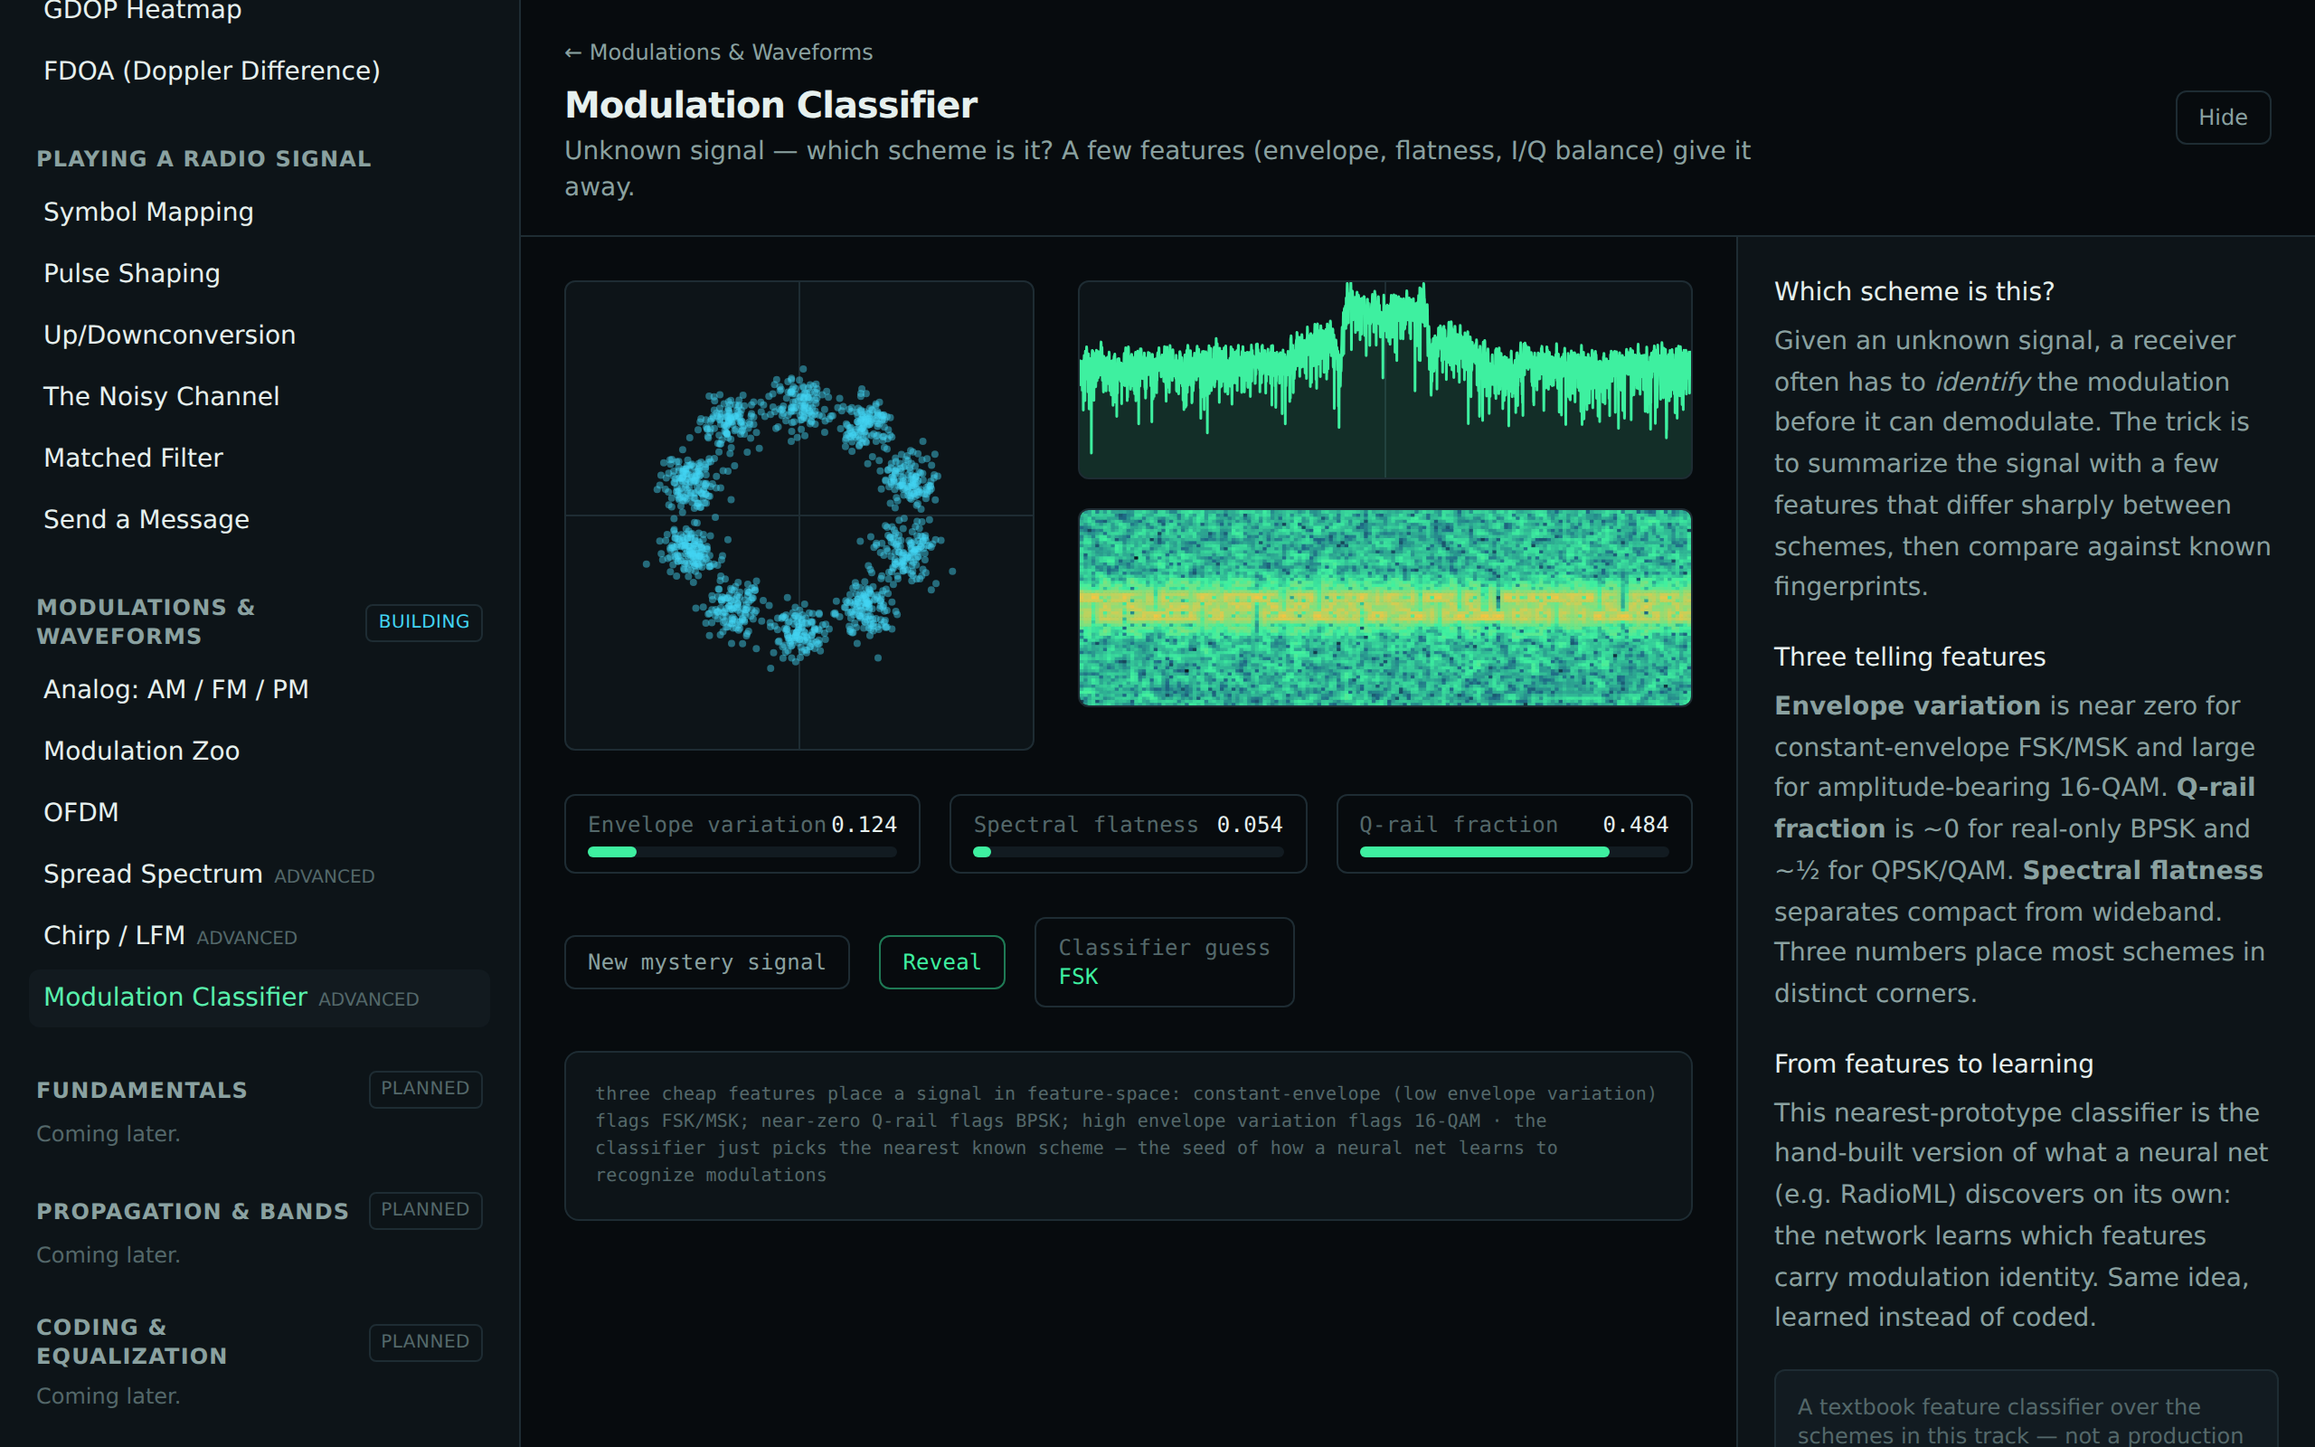
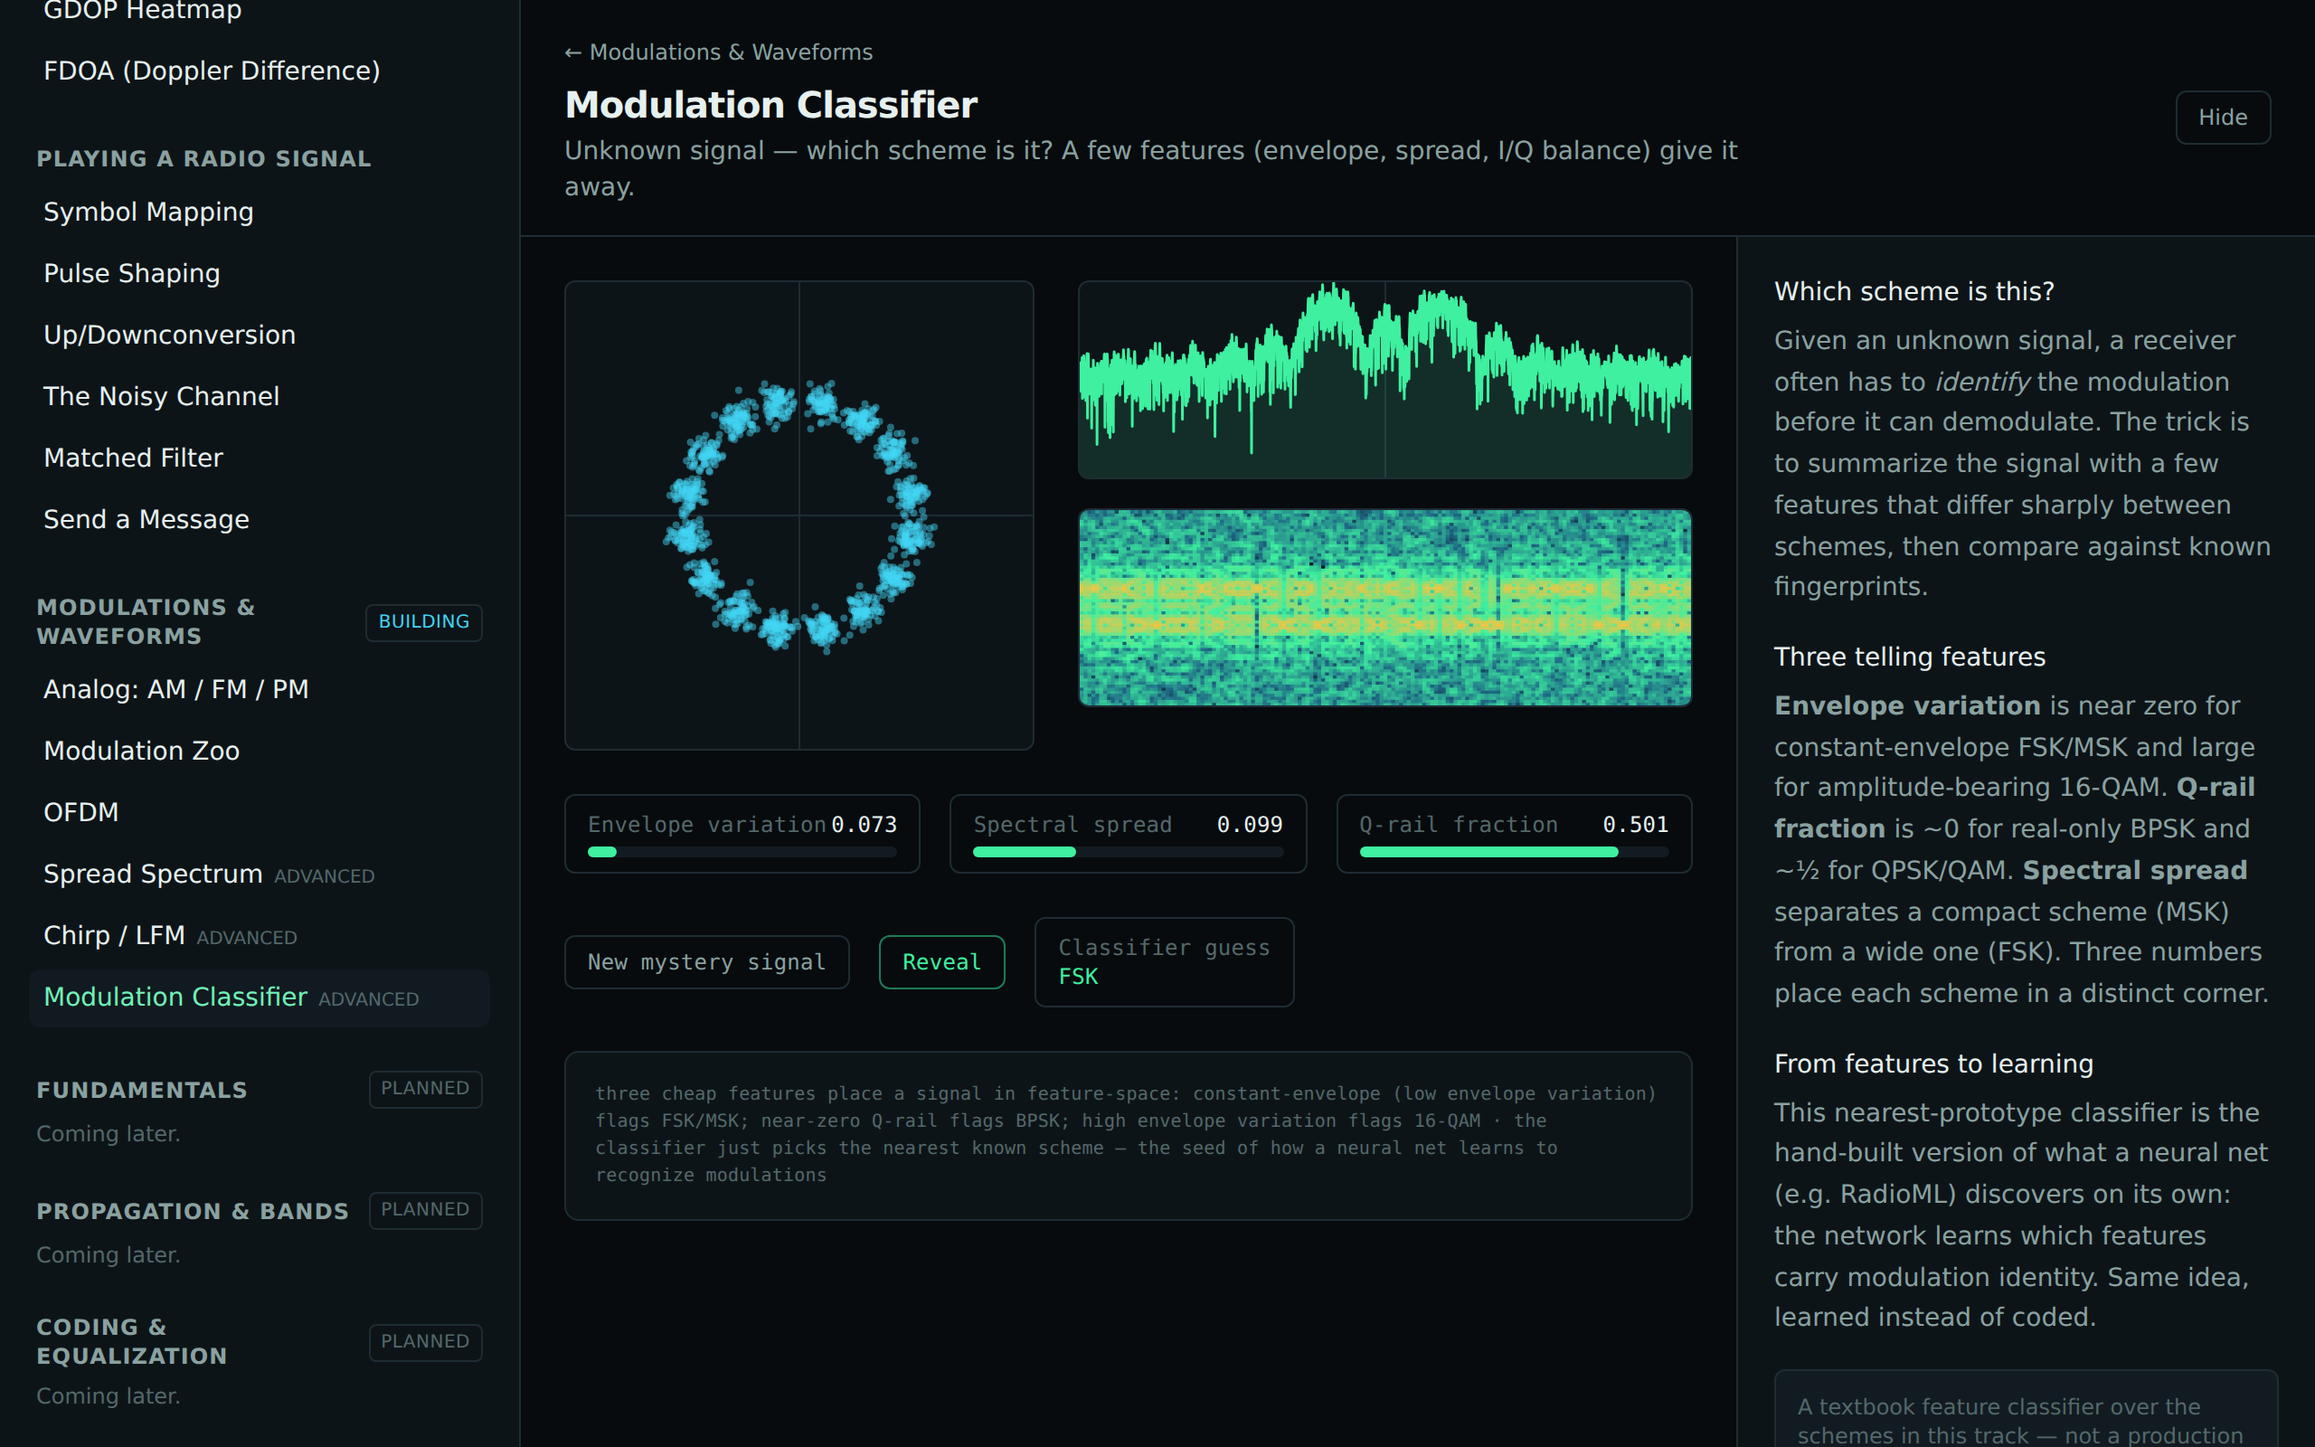
fix(track-c): noise-matched classifier prototypes + robust FSK/MSK separation
Codex: the classifier compared clean prototypes against a noisy mystery, so noise
pushed MSK's features toward clean FSK and MSK misclassified as FSK.

- Build prototypes from the same channel: average features over several noisy
  realizations (shared addChannelNoise helper), so noisy mysteries match noisy refs.
- Replace the spectral-flatness feature with spectral spread (power-weighted RMS
  bandwidth): flatness can't tell FSK's two discrete tones from MSK's compact lobe
  (both are spiky), but spread cleanly separates wide FSK from compact MSK and is
  robust to a uniform noise floor.
- Widen FSK's modulation index to 1.5 (clearly broader than MSK's 0.5; non-round so
  the locus stays a ring rather than landing on a π/4 grid).
- Slightly lower the demo noise (σ = meanEnv/14) to keep all five schemes separable.

Adds a noise-matched-classification test (every scheme self-classifies across seeds,
incl. FSK vs MSK). Updated feature labels/docs. 130 tests pass.

diff --git a/src/modules/modulations-and-waveforms/classifier/ClassifierModule.tsx b/src/modules/modulations-and-waveforms/classifier/ClassifierModule.tsx
@@ -23,15 +23,41 @@ const trainingBits = (() => {
   return Array.from({ length: 400 }, () => (rng() < 0.5 ? 0 : 1));
 })();
 
-// Prototype feature vectors from clean reference signals (built once).
-const PROTOTYPES: Record<string, Features> = Object.fromEntries(
-  NAMES.map((n) => [n, extractFeatures(MODULATORS[n].modulate(trainingBits, SPS).signal)])
-);
-
 function rngBits(seed: number, n: number): number[] {
   const rng = mulberry32(seed);
   return Array.from({ length: n }, () => (rng() < 0.5 ? 0 : 1));
 }
+
+/** Add the same per-sample AWGN the mystery uses (σ ≈ mean envelope / 14 — enough to be visibly
+ *  noisy while keeping the constant-envelope pair FSK/MSK separable). */
+function addChannelNoise(signal: Complex[], seed: number): Complex[] {
+  const sigma = signal.reduce((s, c) => s + Math.hypot(c.re, c.im), 0) / signal.length / 14;
+  const ni = gaussianNoise(signal.length, sigma, seed);
+  const nq = gaussianNoise(signal.length, sigma, seed + 1);
+  return signal.map((s, i) => ({ re: s.re + ni[i], im: s.im + nq[i] }));
+}
+
+// Noise-matched prototypes: average each scheme's features over several noisy realizations, so a
+// noisy mystery is compared against noisy references (clean prototypes would misread, e.g. noise
+// pushes MSK's spectral flatness toward clean FSK).
+const PROTOTYPES: Record<string, Features> = Object.fromEntries(
+  NAMES.map((n) => {
+    const sig = MODULATORS[n].modulate(trainingBits, SPS).signal;
+    const reps = Array.from({ length: 6 }, (_, k) =>
+      extractFeatures(addChannelNoise(sig, 1000 + k * 13))
+    );
+    const mean = (sel: (f: Features) => number) =>
+      reps.reduce((s, f) => s + sel(f), 0) / reps.length;
+    return [
+      n,
+      {
+        envelopeCv: mean((f) => f.envelopeCv),
+        spectralSpread: mean((f) => f.spectralSpread),
+        qFraction: mean((f) => f.qFraction),
+      },
+    ];
+  })
+);
 
 /**
  * Modulation-classification capstone (brief §6 stretch). Here's an unknown signal — which scheme is
@@ -46,10 +72,7 @@ export function ClassifierModule() {
     const truth = NAMES[seed % NAMES.length];
     const mod = MODULATORS[truth];
     const { signal, symbols } = mod.modulate(rngBits(seed * 17 + 1, 320), SPS);
-    const sigma = signal.reduce((s, c) => s + Math.hypot(c.re, c.im), 0) / signal.length / 8;
-    const ni = gaussianNoise(signal.length, sigma, seed + 5);
-    const nq = gaussianNoise(signal.length, sigma, seed + 6);
-    const noisy = signal.map((s, i) => ({ re: s.re + ni[i], im: s.im + nq[i] }));
+    const noisy = addChannelNoise(signal, seed * 2 + 5);
 
     const features = extractFeatures(noisy);
     const guess = classify(features, PROTOTYPES);
@@ -95,7 +118,7 @@ export function ClassifierModule() {
 
       <div className="grid grid-cols-1 gap-4 sm:grid-cols-3">
         <FeatureBar label="Envelope variation" value={features.envelopeCv} max={0.8} />
-        <FeatureBar label="Spectral flatness" value={features.spectralFlatness} max={1} />
+        <FeatureBar label="Spectral spread" value={features.spectralSpread} max={0.3} />
         <FeatureBar label="Q-rail fraction" value={features.qFraction} max={0.6} />
       </div>
 

diff --git a/src/dsp/features.ts b/src/dsp/features.ts
@@ -10,8 +10,9 @@ import { fft } from './fft';
 export interface Features {
   /** Envelope coefficient of variation std(|s|)/mean(|s|): ~0 for constant-envelope, high for QAM. */
   envelopeCv: number;
-  /** Spectral flatness (Wiener entropy) of the power spectrum, 0…1: high = noise-like/wideband. */
-  spectralFlatness: number;
+  /** Power-weighted RMS bandwidth in normalized frequency [0,0.5]: small for compact schemes (MSK),
+   *  large when energy spreads far from center (wide FSK). Robust to a uniform noise floor. */
+  spectralSpread: number;
   /** Fraction of energy on the Q rail: ~0 for BPSK (real only), ~0.5 for QPSK/QAM/FSK. */
   qFraction: number;
 }
@@ -34,16 +35,28 @@ export function extractFeatures(signal: Complex[]): Features {
   }
   const qFraction = totE > 1e-12 ? qE / totE : 0;
 
+  // Power-weighted RMS bandwidth about the spectral centroid, in normalized frequency (−0.5…0.5).
   const N = nextPow2(n);
   const padded: Complex[] = Array.from({ length: N }, (_, i) =>
     i < n ? signal[i] : { re: 0, im: 0 }
   );
-  const power = fft(padded).map((c) => c.re * c.re + c.im * c.im + 1e-12);
-  const logMean = power.reduce((s, p) => s + Math.log(p), 0) / N;
-  const arithMean = power.reduce((s, p) => s + p, 0) / N;
-  const spectralFlatness = Math.exp(logMean) / arithMean;
+  const power = fft(padded).map((c) => c.re * c.re + c.im * c.im);
+  let pSum = 0;
+  let fSum = 0;
+  for (let k = 0; k < N; k++) {
+    const f = k < N / 2 ? k / N : (k - N) / N; // unshifted bin → normalized freq
+    pSum += power[k];
+    fSum += f * power[k];
+  }
+  const centroid = pSum > 1e-12 ? fSum / pSum : 0;
+  let varSum = 0;
+  for (let k = 0; k < N; k++) {
+    const f = k < N / 2 ? k / N : (k - N) / N;
+    varSum += power[k] * (f - centroid) ** 2;
+  }
+  const spectralSpread = pSum > 1e-12 ? Math.sqrt(varSum / pSum) : 0;
 
-  return { envelopeCv, spectralFlatness, qFraction };
+  return { envelopeCv, spectralSpread, qFraction };
 }
 
 /** Nearest-prototype classifier: the scheme whose feature vector is closest (Euclidean). */
@@ -53,7 +66,7 @@ export function classify(f: Features, prototypes: Record<string, Features>): str
   for (const [name, p] of Object.entries(prototypes)) {
     const d =
       (f.envelopeCv - p.envelopeCv) ** 2 +
-      (f.spectralFlatness - p.spectralFlatness) ** 2 +
+      (f.spectralSpread - p.spectralSpread) ** 2 +
       (f.qFraction - p.qFraction) ** 2;
     if (d < bestD) {
       bestD = d;

diff --git a/src/dsp/features.test.ts b/src/dsp/features.test.ts
@@ -1,5 +1,7 @@
 import { describe, it, expect } from 'vitest';
+import type { Complex } from './complex';
 import { MODULATORS } from './modulation';
+import { gaussianNoise } from './random';
 import { extractFeatures, classify, type Features } from './features';
 
 const SPS = 8;
@@ -12,6 +14,13 @@ const prototypes: Record<string, Features> = Object.fromEntries(
     extractFeatures(m.modulate(bits, SPS).signal),
   ])
 );
+
+const addNoise = (signal: Complex[], seed: number): Complex[] => {
+  const sigma = signal.reduce((s, c) => s + Math.hypot(c.re, c.im), 0) / signal.length / 14;
+  const ni = gaussianNoise(signal.length, sigma, seed);
+  const nq = gaussianNoise(signal.length, sigma, seed + 1);
+  return signal.map((s, i) => ({ re: s.re + ni[i], im: s.im + nq[i] }));
+};
 
 describe('modulation features', () => {
   it('BPSK has almost no Q-rail energy; QPSK is balanced', () => {
@@ -29,6 +38,35 @@ describe('modulation features', () => {
     for (const [name, m] of Object.entries(MODULATORS)) {
       const f = extractFeatures(m.modulate(bits, SPS).signal);
       expect(classify(f, prototypes)).toBe(name);
+    }
+  });
+
+  it('noise-matched prototypes classify noisy schemes (incl. MSK vs FSK)', () => {
+    // Prototypes averaged over noisy realizations, as the classifier module does.
+    const noisyProto: Record<string, Features> = Object.fromEntries(
+      Object.entries(MODULATORS).map(([name, m]) => {
+        const sig = m.modulate(bits, SPS).signal;
+        const reps = Array.from({ length: 6 }, (_, k) =>
+          extractFeatures(addNoise(sig, 1000 + k * 13))
+        );
+        const mean = (sel: (f: Features) => number) =>
+          reps.reduce((s, f) => s + sel(f), 0) / reps.length;
+        return [
+          name,
+          {
+            envelopeCv: mean((f) => f.envelopeCv),
+            spectralSpread: mean((f) => f.spectralSpread),
+            qFraction: mean((f) => f.qFraction),
+          },
+        ];
+      })
+    );
+    // Every scheme, across several noisy realizations, classifies as itself.
+    for (const [name, m] of Object.entries(MODULATORS)) {
+      const sig = m.modulate(bits, SPS).signal;
+      for (let seed = 1; seed <= 5; seed++) {
+        expect(classify(extractFeatures(addNoise(sig, seed * 7)), noisyProto)).toBe(name);
+      }
     }
   });
 });

diff --git a/src/modules/modulations-and-waveforms/classifier/ClassifierExplanation.tsx b/src/modules/modulations-and-waveforms/classifier/ClassifierExplanation.tsx
@@ -16,8 +16,8 @@ export function ClassifierExplanation() {
         <p>
           <strong>Envelope variation</strong> is near zero for constant-envelope FSK/MSK and large
           for amplitude-bearing 16-QAM. <strong>Q-rail fraction</strong> is ~0 for real-only BPSK
-          and ~½ for QPSK/QAM. <strong>Spectral flatness</strong> separates compact from wideband.
-          Three numbers place most schemes in distinct corners.
+          and ~½ for QPSK/QAM. <strong>Spectral spread</strong> separates a compact scheme (MSK)
+          from a wide one (FSK). Three numbers place each scheme in a distinct corner.
         </p>
       </section>
 

diff --git a/src/dsp/modulation.ts b/src/dsp/modulation.ts
@@ -95,7 +95,10 @@ export const MODULATORS: Record<string, Modulator> = {
   BPSK: linear(CONSTELLATIONS.BPSK),
   QPSK: linear(CONSTELLATIONS.QPSK),
   '16-QAM': linear(CONSTELLATIONS.QAM16),
-  FSK: cpfsk('FSK', 0.8),
+  // FSK uses a wide modulation index so its two tones sit far apart — clearly broader-band than MSK
+  // (h = 0.5), which keeps the two separable in both the spectrogram and the classifier's features.
+  // (1.5 rather than a round 2 so per-sample phase doesn't land on a neat π/4 grid in the locus.)
+  FSK: cpfsk('FSK', 1.5),
   MSK: cpfsk('MSK', 0.5),
 };
 

diff --git a/src/modules/modulations-and-waveforms/classifier/index.ts b/src/modules/modulations-and-waveforms/classifier/index.ts
@@ -7,7 +7,7 @@ registerModule({
   title: 'Modulation Classifier',
   track: 'modulations-and-waveforms',
   oneLineIntuition:
-    'Unknown signal — which scheme is it? A few features (envelope, flatness, I/Q balance) give it away.',
+    'Unknown signal — which scheme is it? A few features (envelope, spread, I/Q balance) give it away.',
   component: ClassifierModule,
   explanation: ClassifierExplanation,
   status: 'advanced',

diff --git a/docs/tracks/modulations-and-waveforms.md b/docs/tracks/modulations-and-waveforms.md
@@ -11,14 +11,14 @@ compositions of the primitives.
 
 ## Modules
 
-| Module                    | Intuition                                                                         | Status      |
-| ------------------------- | --------------------------------------------------------------------------------- | ----------- |
-| **Analog: AM / FM / PM**  | One message, three carriers — wiggle amplitude, frequency, or phase.              | ✅ shipping |
-| **Modulation Zoo**        | A/B two schemes across five synchronized views (the marquee).                     | ✅ shipping |
-| **OFDM**                  | Many slow QPSK subcarriers via IFFT + cyclic prefix; multipath made easy.         | ✅ shipping |
-| **Spread Spectrum**       | A PN code smears data wide and low, then de-spreads it back (processing gain).    | advanced    |
-| **Chirp / LFM**           | A swept tone draws the spectrogram diagonal; pulse compression.                   | advanced    |
-| **Modulation Classifier** | Identify an unknown scheme from a few features (envelope, flatness, I/Q balance). | advanced    |
+| Module                    | Intuition                                                                       | Status      |
+| ------------------------- | ------------------------------------------------------------------------------- | ----------- |
+| **Analog: AM / FM / PM**  | One message, three carriers — wiggle amplitude, frequency, or phase.            | ✅ shipping |
+| **Modulation Zoo**        | A/B two schemes across five synchronized views (the marquee).                   | ✅ shipping |
+| **OFDM**                  | Many slow QPSK subcarriers via IFFT + cyclic prefix; multipath made easy.       | ✅ shipping |
+| **Spread Spectrum**       | A PN code smears data wide and low, then de-spreads it back (processing gain).  | advanced    |
+| **Chirp / LFM**           | A swept tone draws the spectrogram diagonal; pulse compression.                 | advanced    |
+| **Modulation Classifier** | Identify an unknown scheme from a few features (envelope, spread, I/Q balance). | advanced    |
 
 ![Modulation Zoo module](../images/modulation-zoo.png)
 

diff --git a/docs/dsp/modulation.md b/docs/dsp/modulation.md
@@ -32,7 +32,7 @@ frequency/phase (constant envelope, a Carson-rule fan of sidebands).
 ## Modulation features
 
 `extractFeatures` returns three discriminators — envelope coefficient of variation (constant-envelope
-vs amplitude-bearing), spectral flatness (compact vs wideband), and Q-rail energy fraction (BPSK ≈ 0
+vs amplitude-bearing), spectral spread (compact MSK vs wide FSK), and Q-rail energy fraction (BPSK ≈ 0
 vs QPSK/QAM ≈ ½). `classify` is nearest-prototype in that space; the tests confirm each clean scheme
 classifies as itself.
 
